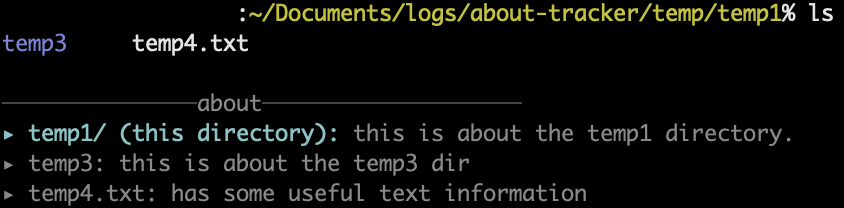
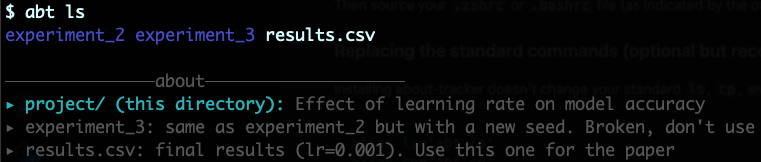
improved readme

diff --git a/README.md b/README.md
@@ -1,6 +1,38 @@
 # about-tracker
 Tool to add and manage metadata for files and directories.
 
+## Why about-tracker?
+
+A file or directory name is often the only place to record what something is, so names end up carrying far more than they should:
+
+```
+results_final_v2_fixed_lr0.001_USE_THIS.csv
+experiment_3_(same as 2 but new seed, broken - dont use)/
+```
+
+Names like these are hard to read, awkward to type, and still leave out the context that matters most: why the file exists, where it came from, what state it is in, and what you should do with it. Putting spaces, brackets or quotes in them to fit more in only makes them harder to use in a terminal. Writing that context in a separate notes file doesn't help much either: nobody opens it, and it goes out of date as soon as files are renamed or moved.
+
+about-tracker lets names stay short and puts the description next to the file instead:
+
+- **Short names, full descriptions.** `abt modify results.csv` opens a small markdown file (`.about_results.csv.md`) in your editor, where you can write as much as you want.
+- **The descriptions are shown where you already look.** `abt ls` prints the normal `ls` output followed by the description of the directory and of every entry in it:
+
+  ```
+  $ abt ls
+  experiment_2  experiment_3  results.csv
+
+  ───────────────about────────────────────
+  ▸ project/ (this directory): Effect of learning rate on model accuracy
+  ▸ experiment_3: same as experiment_2 but with a new seed. Broken, don't use
+  ▸ results.csv: final results (lr=0.001). Use this one for the paper
+  ```
+
+    ![ls output example](docs/ls_example_ss.png)
+    <!-- <img src="docs/ls_example_ss.png" align="center" width="500"/> <br> -->
+
+- **Descriptions follow their files.** `abt mv`, `abt cp` and `abt rm` move, copy and remove the description along with the file, and `abt doctor` finds descriptions that were left behind when a file was moved some other way.
+- **Plain files, no lock-in.** Descriptions are ordinary hidden markdown files, so they can be read without about-tracker, committed to git and synced like any other file.
+
 ## Setup
 
 Run the following commands in terminal:
@@ -13,38 +45,7 @@ cd about-tracker
 
 Then source your `.zshrc` or `.bashrc` file (as indicated by the output once you have installed successfully) to activate `about-tracker` in your current shell session.
 
-## Getting started
-
-All about-tracker commands are run through `abt`: `abt ls`, `abt cp`, `abt mv`, `abt rm`, `abt modify` and `abt doctor`. Run `abt help` for an overview of all commands, or `abt help <command>` (e.g. `abt help mv`) for details on one command.
-
-Tab completion works for the subcommands in both bash and zsh: `abt l<TAB>` fills in `abt ls`, and `abt m<TAB>` lists `modify` and `mv`. After the subcommand, TAB completes file and directory names as usual. If you installed about-tracker before tab completion was added, run `./install.sh` again and source your `.zshrc` or `.bashrc`.
-
-Now you can go to any directory and for any file or directory in that location, add a metadata file using:
-`abt modify file.txt` or `abt modify directory`.
-You can also add a metadata for the current directory you are in using `abt modify .`. 
-If the metadata file is already existing for the entity, the text editor will open letting you edit the existing file.
-
-Now, whenever you run `abt ls` from any directory, if there are any metadata files of entities inside that directory, or of the current directory (which would be located in the parent folder), they will also be shown in the output:
-
-<!-- ![ls output example](docs/ls_example_ss.png) -->
-<img src="docs/ls_example_ss.png" align="center" width="500"/> <br>
-
-
-Whenver you copy or move a file/directory using `abt cp` or `abt mv`, its metadata file if existing will be copied appropriately automatically. If you try to remove a file/directory using `abt rm` whose metadata file already exists, then you will get warning about the removal of the assisting metadata file too, and you have to confirm that action.
-
-**NOTE: Its very important that the user doesn't move/copy the files through something other than the `abt` commands. Because then, the metadata files won't move along with the file.**
-
-If that has happened (for example, a file was moved in Finder or renamed by another program), `abt doctor` finds the metadata files left behind:
-
-```sh
-abt doctor               # checks the current directory
-abt doctor some/dir      # checks some/dir
-abt doctor -r some/dir   # checks some/dir and all its subdirectories
-```
-
-It lists every `.about_<name>.md` file whose `<name>` no longer exists in the same directory, and does not change anything. It exits with `0` if nothing is orphaned, `1` if orphaned metadata files were found, and `2` if the argument is not a directory.
-
-### Replacing the standard commands (optional)
+### Replacing the standard commands (optional but recommended)
 
 Installing about-tracker doesn't change your standard `ls`, `cp`, `mv` and `rm` commands. If you want those commands to always use about-tracker, add the following aliases to your `.zshrc` or `.bashrc` file:
 
@@ -57,7 +58,32 @@ alias rm='abt rm'
 
 You can still run the original command at any time using `command`, for example `command ls`.
 
+## Getting started
 
+All about-tracker commands are run through `abt`: `abt ls`, `abt cp`, `abt mv`, `abt rm`, `abt modify` and `abt doctor`. Run `abt help` for an overview of all commands, or `abt help <command>` (e.g. `abt help mv`) for details on one command.
+
+Now you can go to any directory and for any file or directory in that location, add a metadata file using:
+`abt modify file.txt` or `abt modify directory`.
+You can also add a metadata for the current directory you are in using `abt modify .`. 
+If the metadata file is already existing for the entity, the text editor will open letting you edit the existing file.
+
+Now, whenever you run `abt ls` from any directory, if there are any metadata files of entities inside that directory, or of the current directory (which would be located in the parent folder), they will also be shown in the output:
+
+Whenver you copy or move a file/directory using `abt cp` or `abt mv`, its metadata file if existing will be copied appropriately automatically. If you try to remove a file/directory using `abt rm` whose metadata file already exists, then you will get warning about the removal of the assisting metadata file too, and you have to confirm that action.
+
+<img src="docs/demo.gif" align="center" width="800"/> <br>
+
+**NOTE: If the user moves/copies the files through something other than the `abt` commands, then the metadata files won't move along with the file.**
+
+If that has happened (for example, a file was moved in Finder or renamed by another program), `abt doctor` finds the metadata files left behind:
+
+```sh
+abt doctor               # checks the current directory
+abt doctor some/dir      # checks some/dir
+abt doctor -r some/dir   # checks some/dir and all its subdirectories
+```
+
+It lists every `.about_<name>.md` file whose `<name>` no longer exists in the same directory, and does not change anything. It exits with `0` if nothing is orphaned, `1` if orphaned metadata files were found, and `2` if the argument is not a directory.
 
 ## Uninstalling
 
